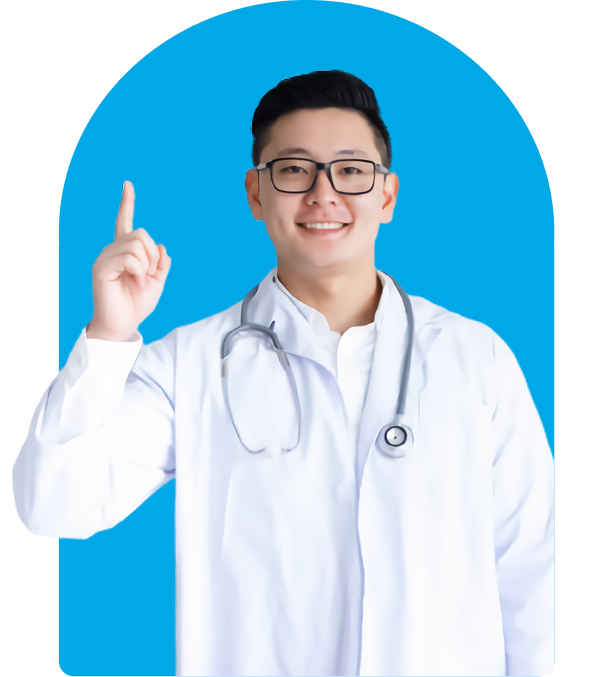
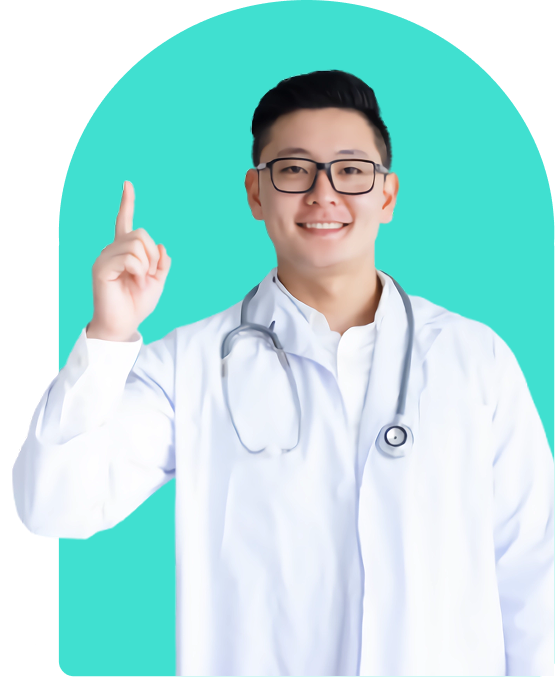
[UPDATE] Colors Themes

diff --git a/public/css/style.css b/public/css/style.css
@@ -5,8 +5,8 @@
 }
 
 :root {
-    --color-blue: #00a8e8;
-    --color-blue-hover: #0077b6; /* hover */
+    --color-blue: #3acabb;
+    --color-blue-hover: #33b3a6; /* hover */
     --color-text-dark: #000;
     --color-text-mid: #666;
     --color-text-light: #777;
@@ -189,12 +189,6 @@ a {
 }
 
 .menu-item {
-    /* display: flex;
-    flex-direction: column;
-    align-items: center;
-    cursor: pointer;
-    padding: 10px;
-    transition: 0.3s; */
     background-color: #ffffff;
     border: 1px solid #e5e7eb;
     border-radius: 0.75rem;
@@ -220,7 +214,7 @@ a {
 
 .menu-item.active span {
     font-weight: 600;
-    color: #007bff;
+    color: #3acabb;
 }
 
 .menu-item:hover {
@@ -460,7 +454,7 @@ a {
 ========== Tutorial ==========
 --------------------------------- */
 .tutorial__subjudul {
-    color: #c9e0ff;
+    color: #ffffff;
 }
 
 .tutorial__wadah-langkah {
